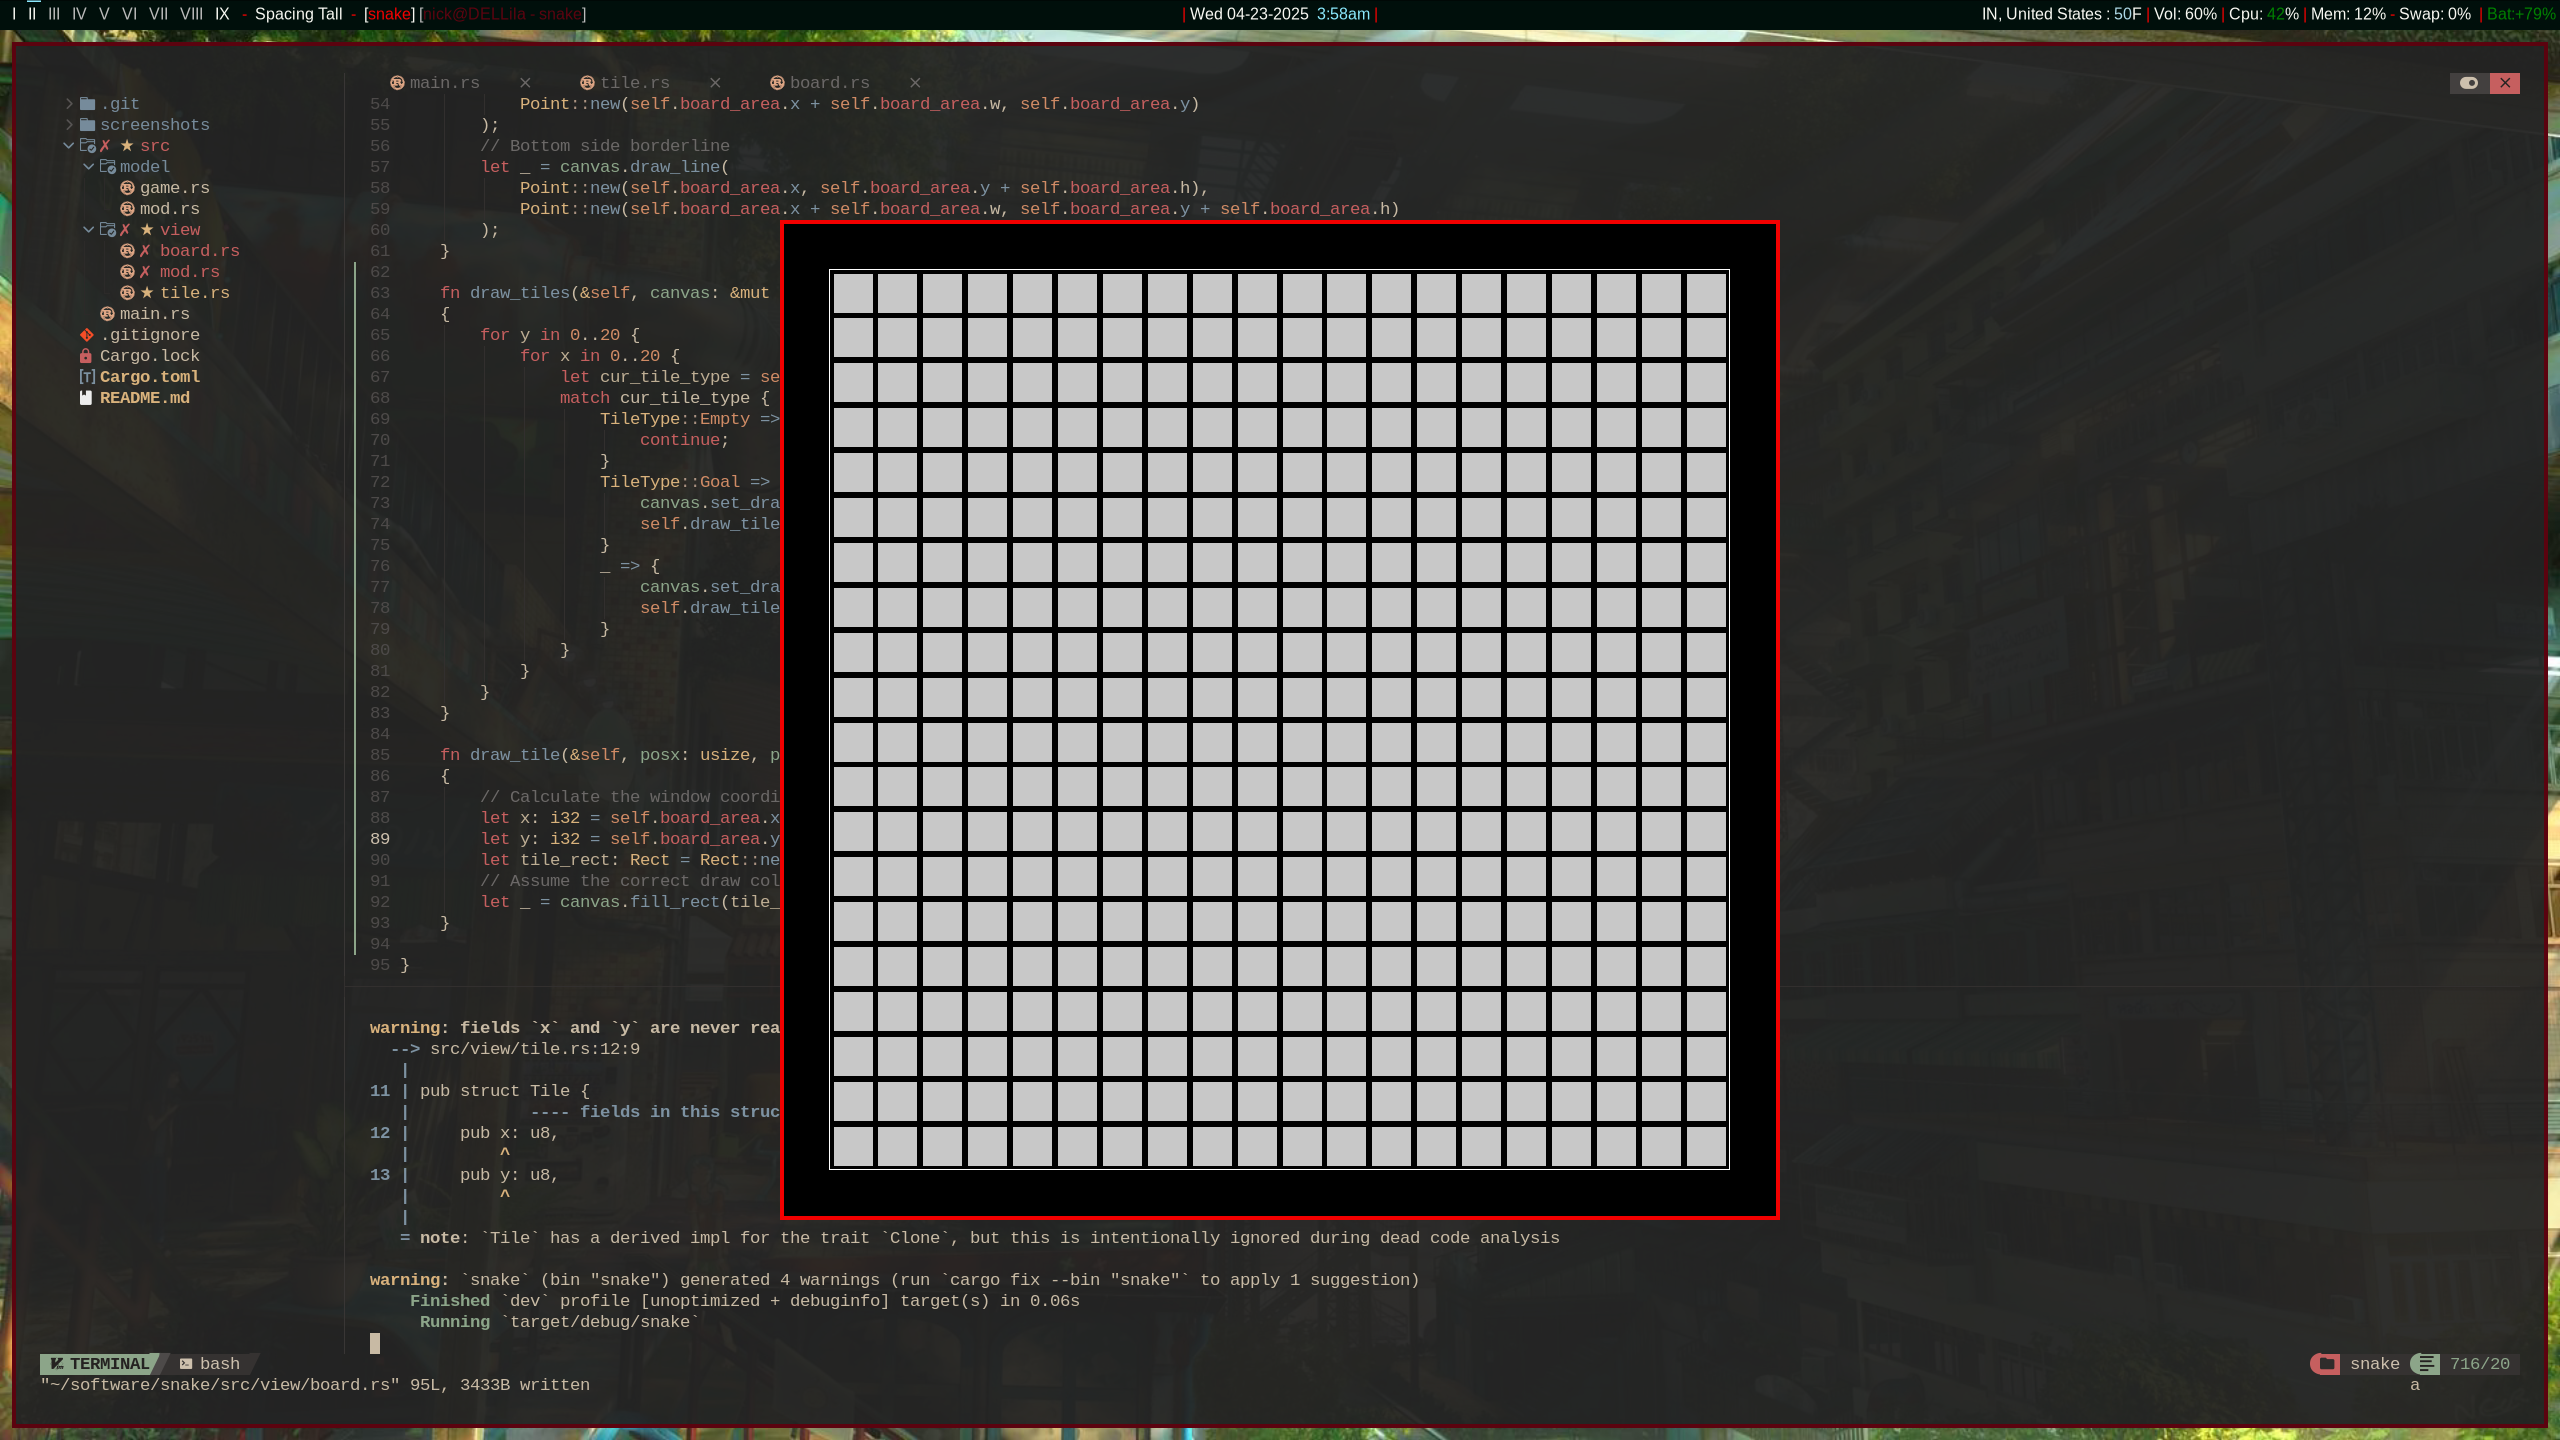
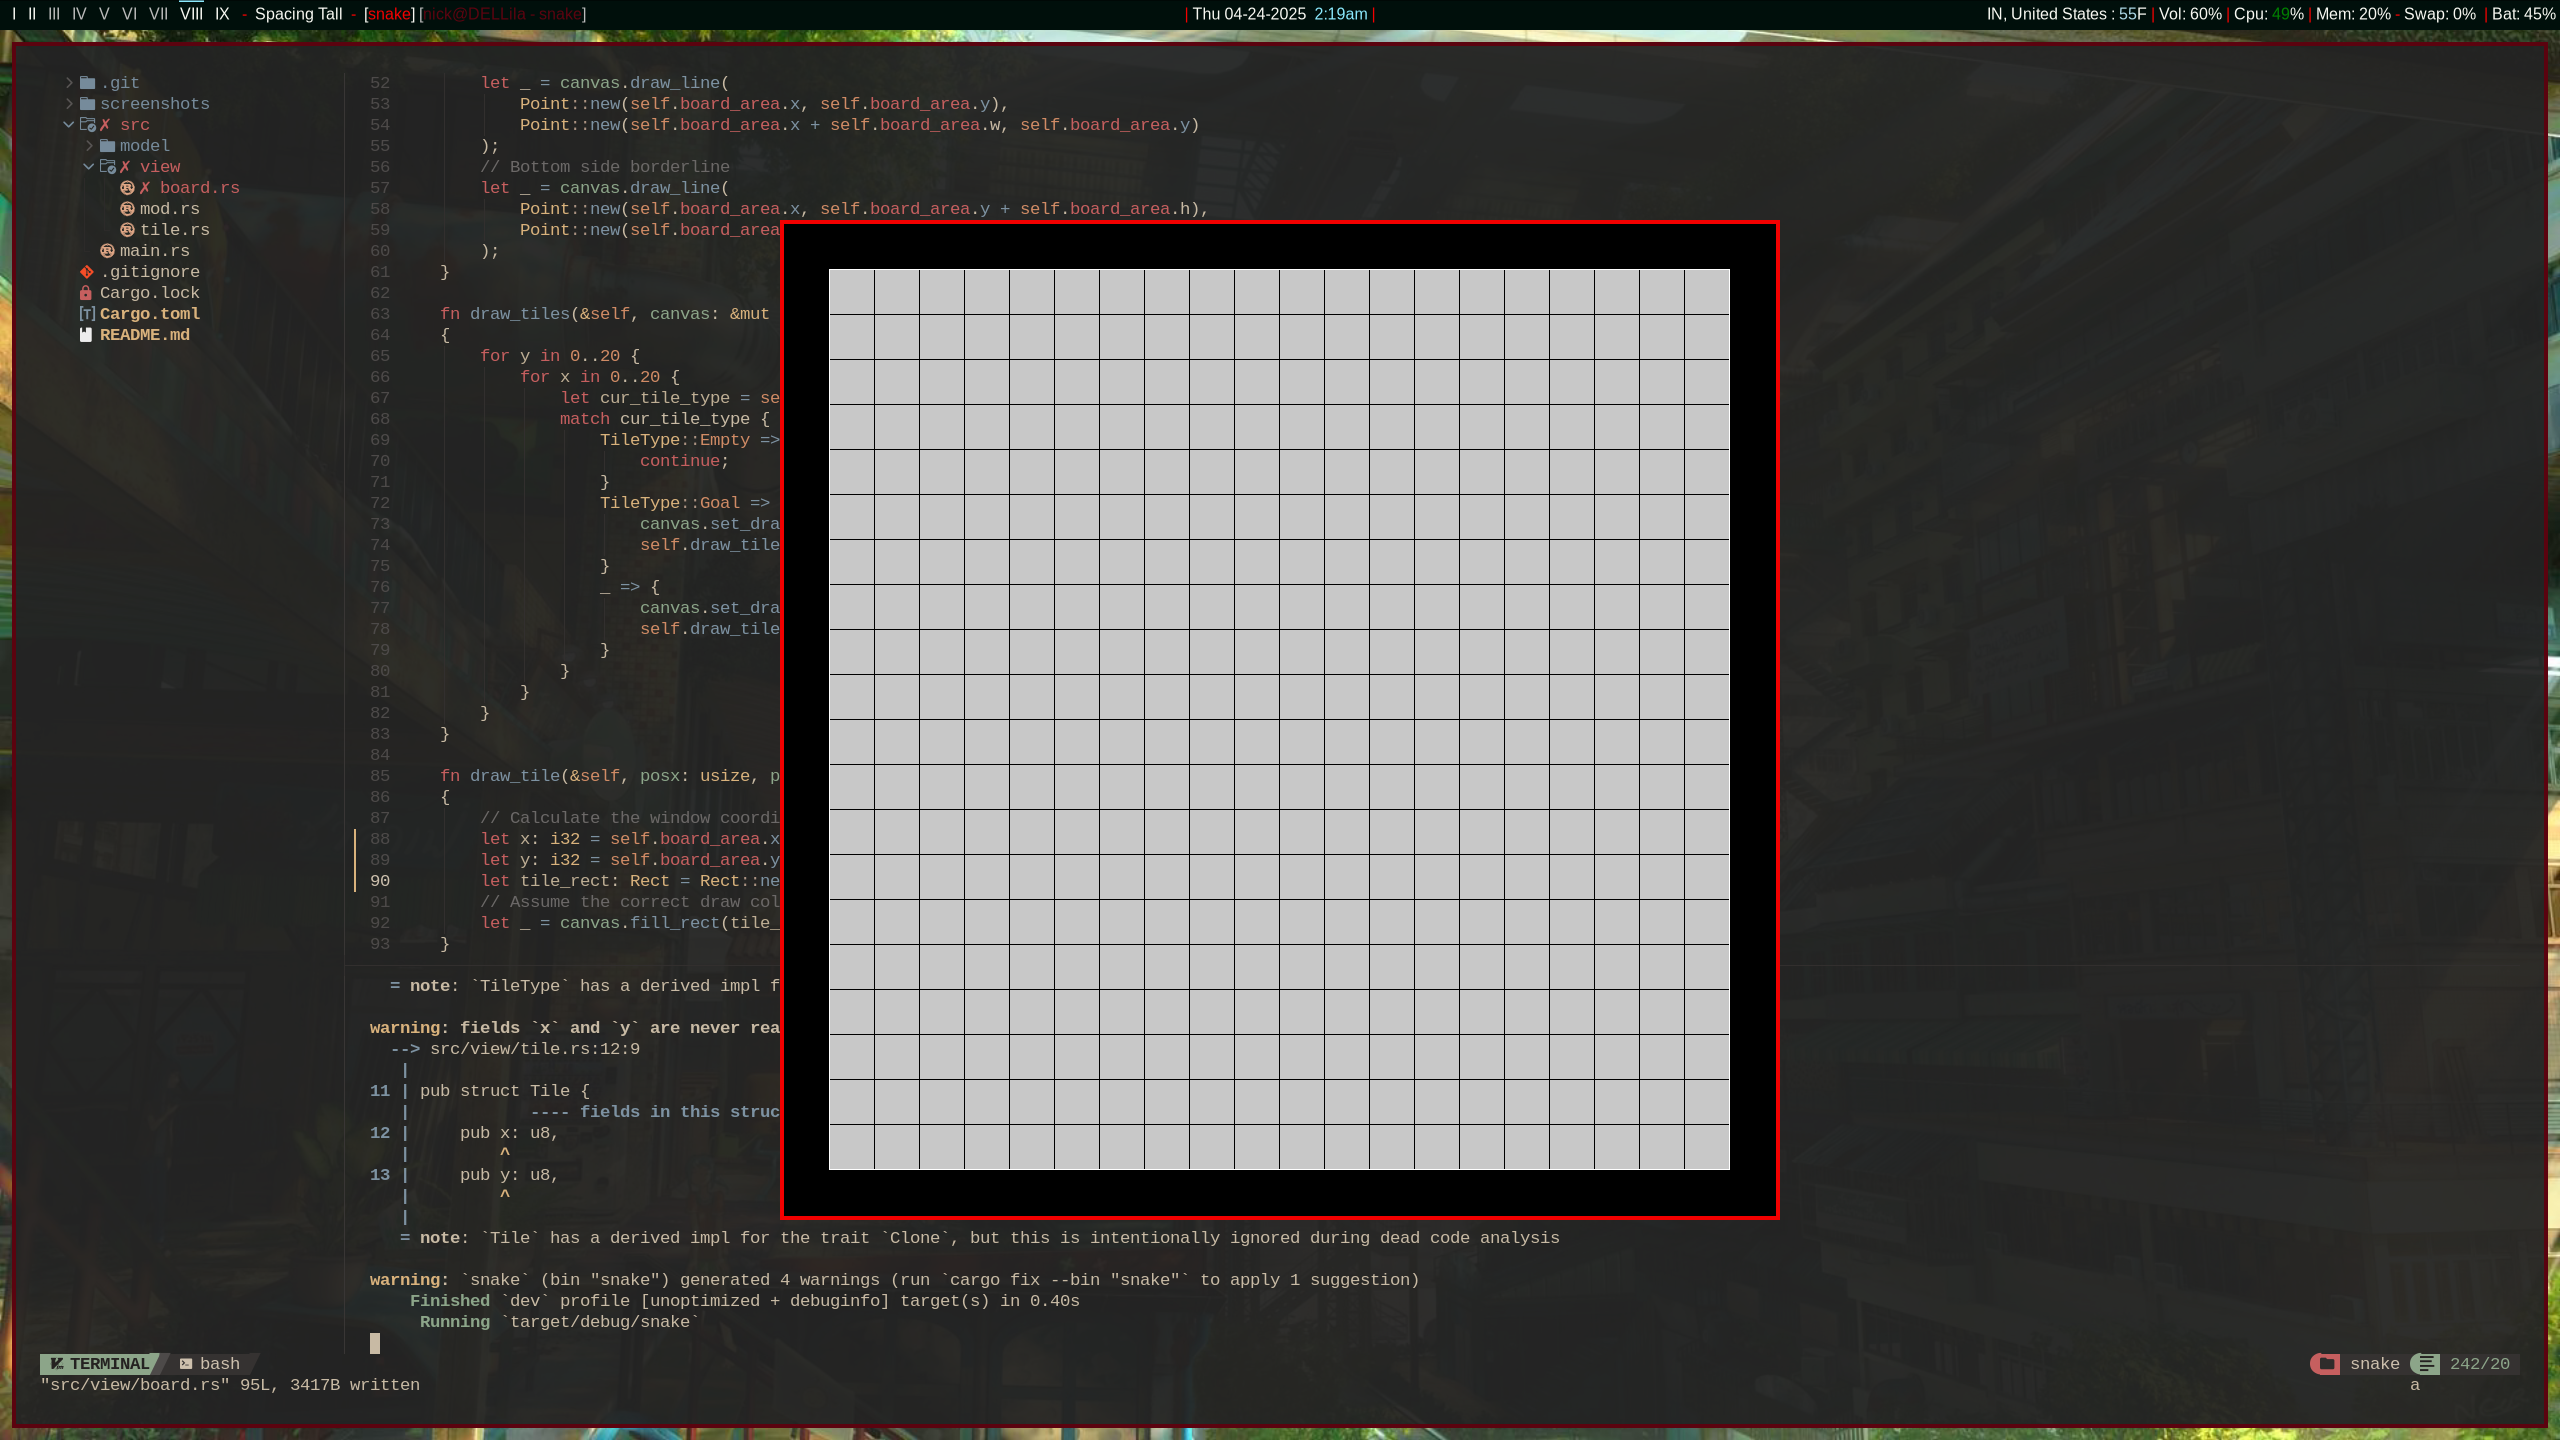
corrected the draw_tile() function in board.rs so that the tiles are centered

diff --git a/src/view/board.rs b/src/view/board.rs
@@ -85,9 +85,9 @@ impl Board {
     fn draw_tile(&self, posx: usize, posy: usize, canvas: &mut Canvas<Window>)
     {
         // Calculate the window coordinates from the board position
-        let x: i32 = self.board_area.x() + 2 + i32::try_from(posx).unwrap() * ((self.board_area.width() as i32)-2)/20;
-        let y: i32 = self.board_area.y() + 2 + i32::try_from(posy).unwrap() * ((self.board_area.height() as i32)-2)/20;
-        let tile_rect: Rect = Rect::new(x + 3, y + 3, self.board_area.width()/20 - 6, self.board_area.height()/20 - 6);
+        let x: i32 = self.board_area.x() + i32::try_from(posx).unwrap() * (self.board_area.width() as i32)/20;
+        let y: i32 = self.board_area.y() + i32::try_from(posy).unwrap() * (self.board_area.height() as i32)/20;
+        let tile_rect: Rect = Rect::new(x + 1, y + 1, self.board_area.width()/20 - 1, self.board_area.height()/20 - 1);
         // Assume the correct draw color is set in the canvas
         let _ = canvas.fill_rect(tile_rect);
     }
